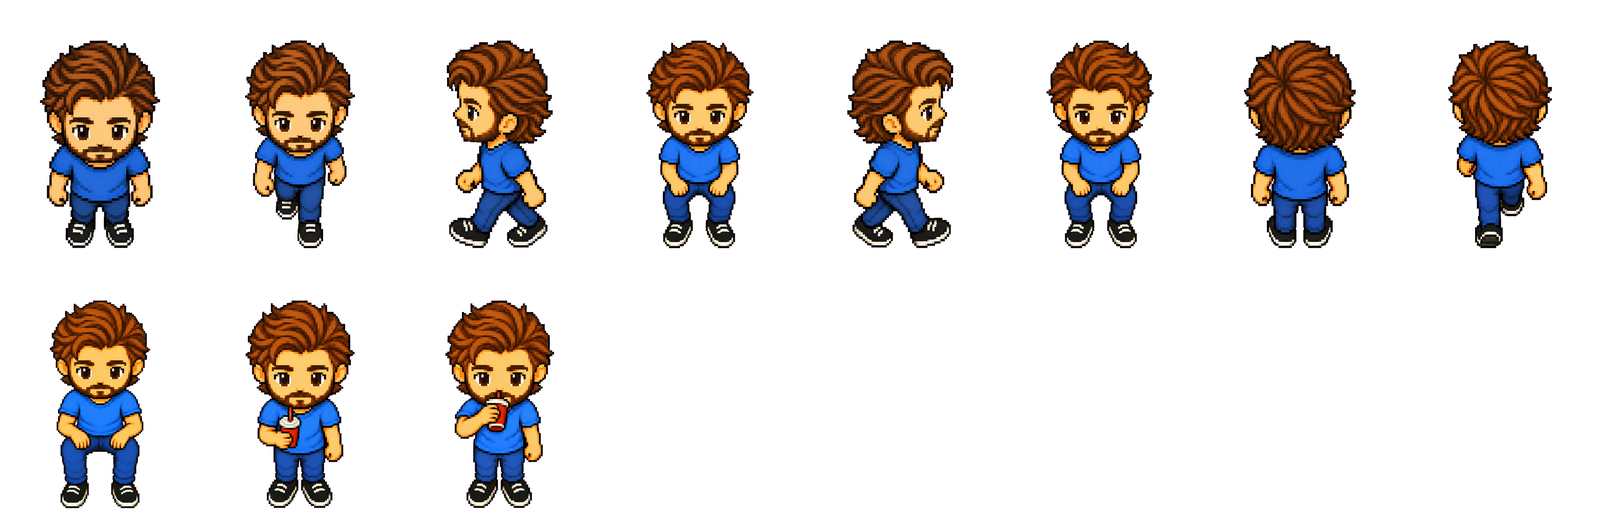
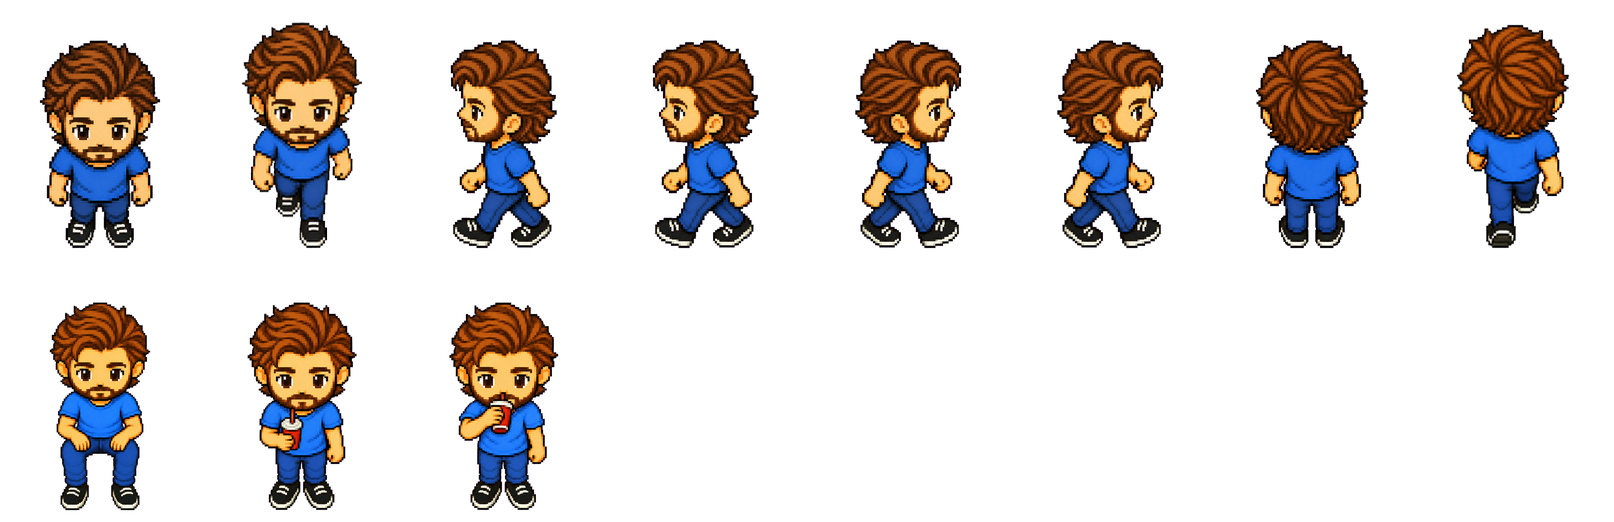
Corrige bugs de animacao: poses de lado trocadas, passo grudando com frame de outra pose, e pulo de 1 quadrado sem mostrar movimento
- lado_passo.png tinha vindo com a imagem errada la na geracao (era uma
  pose de frente, nao de lado) -- fazia o boneco parecer "de frente"
  no meio de andar pro lado, e parado ficava com a "perna" (na
  verdade a pose de frente) grudada. Corrigido reaproveitando a unica
  arte de lado genuina (parado E passo agora usam a mesma imagem
  valida) ate gerarmos uma pose de lado parada de verdade.
- Baixo e cima: a cabeca do frame de "passo" saia uns 7% menor que a
  do "parado" (escala levemente diferente na geracao de cada pose) --
  dava a sensacao de "pulsar" ao alternar de frame andando pra cima.
  Recalibrado o frame de passo pra bater com o tamanho da cabeca do
  parado, mantendo os pes na mesma linha de base.
- Espacamento de 2px entre frames no spritesheet (+ spacing:2 no load)
  pra evitar textura vazando do frame vizinho com antialias:true
  (bilinear filtering lia um fiapo de pixel alem da borda do frame).
- Trocado o sistema de animacao por tempo (frameRate) por troca de
  frame direta amarrada ao estado do passo: antes, um pulo de UM
  quadrado (180ms) podia terminar antes do frameRate trocar pro frame
  de "passo", fazendo o movimento parecer que nao mudou nada visual.
  Agora o frame de passo fica visivel a viagem inteira do tile.

Claude-Session: https://claude.ai/code/session_018xm3GX2bQC8Nuwuw2rsoPK

diff --git a/game/MainScene.ts b/game/MainScene.ts
@@ -110,6 +110,14 @@ export default class MainScene extends Phaser.Scene {
     this.load.spritesheet("avatar-visual1", "/assets/avatar_visual1.png", {
       frameWidth: FRAME_W,
       frameHeight: FRAME_H,
+      // 2px de espaço transparente entre cada frame -- sem isso, com
+      // antialias:true (necessário pra arte gerada não ficar serrilhada),
+      // a GPU "vaza" um fiapo de pixel do frame vizinho nas bordas
+      // (bilinear filtering lendo além do frame), o que aparecia como o
+      // frame de outra pose "grudado" junto, principalmente entre poses
+      // adjacentes na folha (ex: perna de "passo" aparecendo junto com a
+      // pose do lado).
+      spacing: 2,
     });
     this.load.image("room", "/assets/room.png");
 
@@ -142,23 +150,8 @@ export default class MainScene extends Phaser.Scene {
     }) as Record<"up" | "down" | "left" | "right", Phaser.Input.Keyboard.Key>;
     this.drinkKey = this.input.keyboard!.addKey(Phaser.Input.Keyboard.KeyCodes.C);
 
-    this.createAnimations();
-
     const spawn = tileToWorld(9, 9);
     this.localContainer = this.createAvatar(spawn.x, spawn.y, this.localColor, this.localName);
-  }
-
-  private createAnimations() {
-    if (this.anims.exists("walk-down")) return;
-    for (const dir of Object.keys(WALK_FRAMES) as Direction[]) {
-      const [parado, passo] = WALK_FRAMES[dir];
-      this.anims.create({
-        key: `walk-${dir}`,
-        frames: [{ key: "avatar-visual1", frame: parado }, { key: "avatar-visual1", frame: passo }],
-        frameRate: 4,
-        repeat: -1,
-      });
-    }
   }
 
   private createAvatar(
@@ -191,22 +184,28 @@ export default class MainScene extends Phaser.Scene {
     return container;
   }
 
+  /**
+   * Mostra o frame de "passo" (andando) na direção dada, direto -- sem
+   * depender de uma animação com frameRate próprio. Um passo na grade
+   * dura só STEP_DURATION_MS (180ms); uma animação por tempo (frameRate)
+   * podia nem chegar a trocar de frame nesse intervalo curto, fazendo um
+   * pulo de UM quadrado parecer que o boneco não se moveu de verdade.
+   * Setando o frame direto, o "passo" fica visível a viagem toda.
+   */
   private playWalk(container: Phaser.GameObjects.Container, dir: Direction) {
     const sprite = container.getData("sprite") as Phaser.GameObjects.Sprite;
     container.setData("dir", dir);
-    sprite.anims.play(`walk-${dir}`, true);
+    sprite.setFrame(WALK_FRAMES[dir][1]);
   }
 
   private stopWalk(container: Phaser.GameObjects.Container) {
     const sprite = container.getData("sprite") as Phaser.GameObjects.Sprite;
     const dir = container.getData("dir") as Direction;
-    sprite.anims.stop();
     sprite.setFrame(WALK_FRAMES[dir][0]);
   }
 
   private setPoseFrame(container: Phaser.GameObjects.Container, frame: number) {
     const sprite = container.getData("sprite") as Phaser.GameObjects.Sprite;
-    sprite.anims.stop();
     sprite.setFrame(frame);
   }
 
